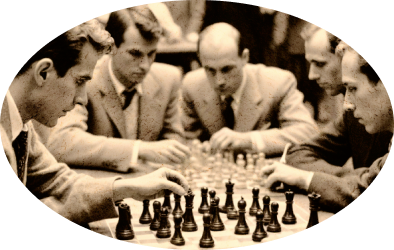
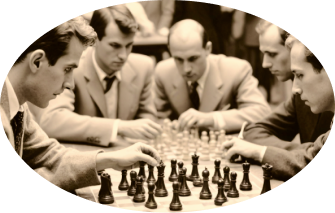
feat: use mix-bland to decor, change img intro

diff --git a/styles/blocks/decor.css b/styles/blocks/decor.css
@@ -1,20 +1,15 @@
-.decor:after,
-.decor:before {
-    content: '';
-    position: absolute;
-    height: 100%;
-    width: 100%;
+.decor {
+    position: relative;
+    margin: 0;
 }
 
 .decor:after {
     inset: 0;
+    mix-blend-mode: color-burn;
+    content: '';
+    position: absolute;
+    width: 100%;
+    height: 100%;
     background-image: url(../../images/bg-pattern.png);
-    z-index: -2;
-}
-
-.decor:before {
-    inset: 0;
-    background-color: var(--bg-section);
-    z-index: -1;
-    opacity: 0.8;
+    background-size: cover;
 }
